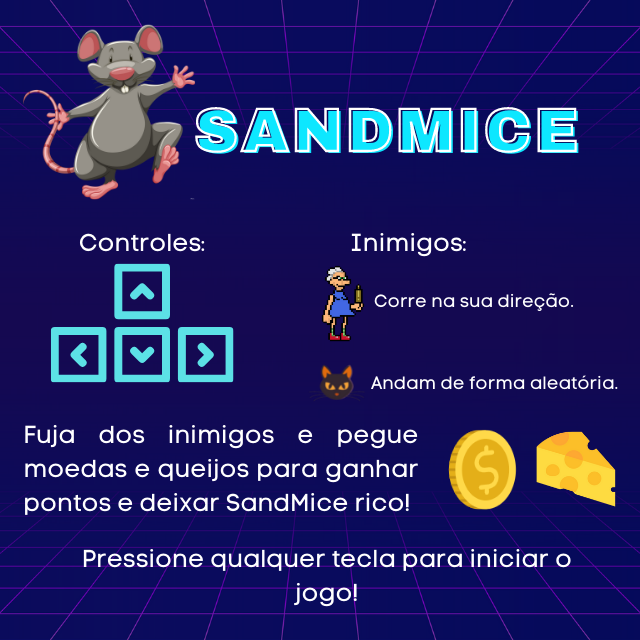
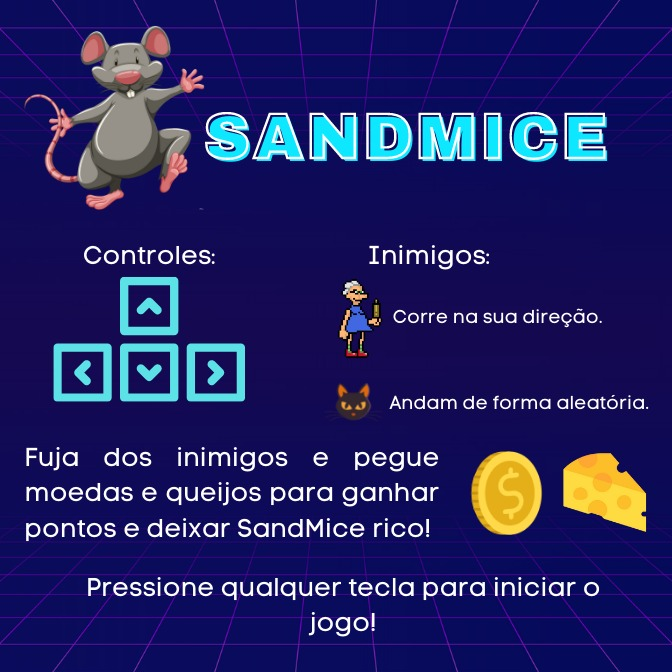
Redimensionando a imagem do início

diff --git a/jogo.py b/jogo.py
@@ -15,7 +15,7 @@ BLUE = (0,0,255)
 YELLOW = (255, 255, 0)
 
 # ----- Gera tela principal
-WIDTH, HEIGHT = 720, 720
+WIDTH, HEIGHT = 672, 672
 window = pygame.display.set_mode((WIDTH, HEIGHT))
 pygame.display.set_caption('Teste')
 
